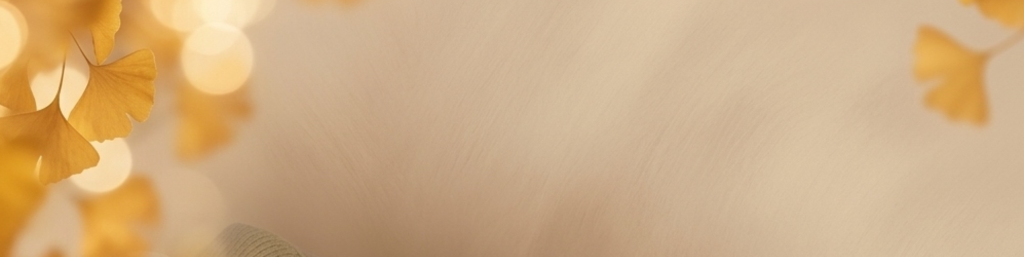
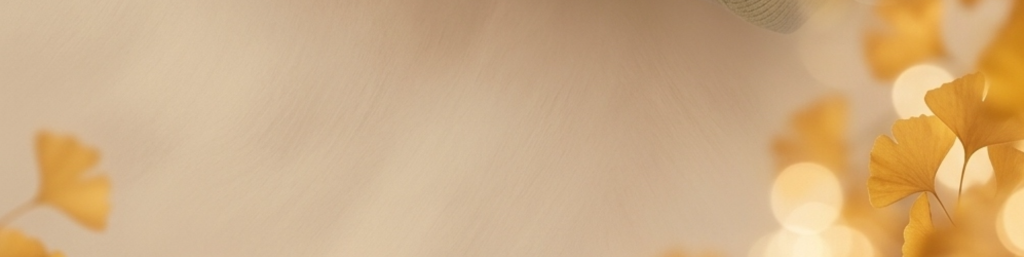
Rotate leaf background 90 deg and reduce opacity gradient so golden ginkgo leaves are clear and vibrant

diff --git a/specials-renderer.js b/specials-renderer.js
@@ -22,7 +22,7 @@ function renderMonthlySpecials() {
         ).join(' ') : '';
 
         return `
-            <div class="bg-white rounded-[24px] border border-warm-gold/25 p-4 md:p-6 pl-4 md:pl-56 shadow-soft hover:shadow-2xl transition-all duration-500 flex flex-col md:grid md:grid-cols-[1fr_auto] items-stretch gap-6 md:gap-8 group animate-on-scroll fade-up relative min-h-[160px] overflow-hidden ${delayClass}" style="background-image: linear-gradient(to right, rgba(255, 255, 255, 0.92), rgba(250, 246, 240, 0.85)), url('assets/fall-leaves-bg.png'); background-size: cover; background-position: center;">
+            <div class="bg-white rounded-[24px] border border-warm-gold/30 p-4 md:p-6 pl-4 md:pl-56 shadow-soft hover:shadow-2xl transition-all duration-500 flex flex-col md:grid md:grid-cols-[1fr_auto] items-stretch gap-6 md:gap-8 group animate-on-scroll fade-up relative min-h-[160px] overflow-hidden ${delayClass}" style="background-image: linear-gradient(to right, rgba(255, 255, 255, 0.88) 0%, rgba(255, 255, 255, 0.60) 55%, rgba(253, 248, 240, 0.15) 100%), url('assets/fall-leaves-bg.png'); background-size: cover; background-position: center;">
                 <!-- Left Image Container (Equal Top, Left & Bottom Margins) -->
                 <div class="w-full md:w-44 h-48 md:h-auto md:absolute md:top-4 md:bottom-4 md:left-4 rounded-[18px] overflow-hidden bg-off-white shrink-0 border border-charcoal/10 relative z-10">
                     <img src="${stepItem.image}" alt="${stepItem.title}" class="w-full h-full object-cover group-hover:scale-105 transition-transform duration-700">
